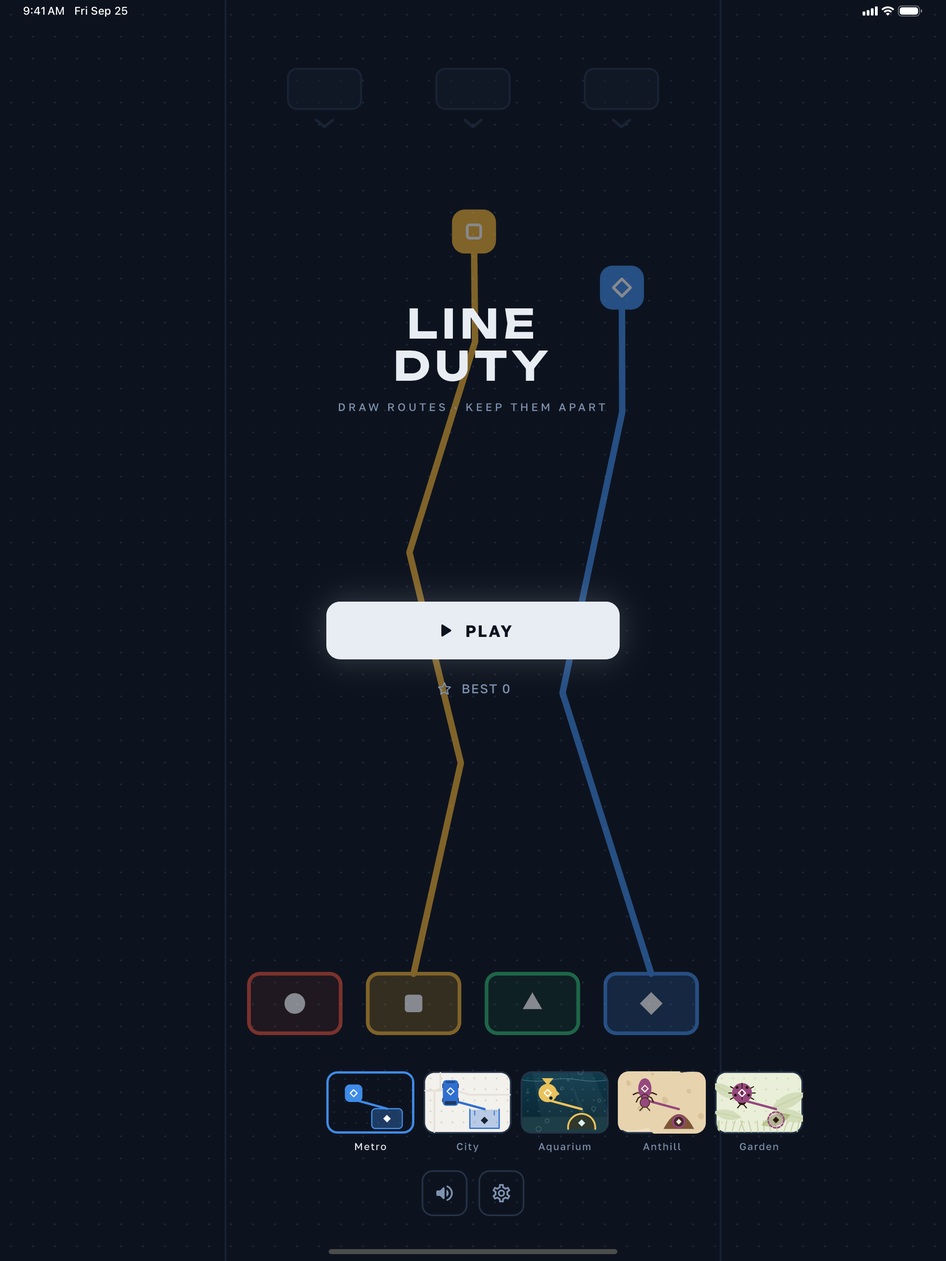
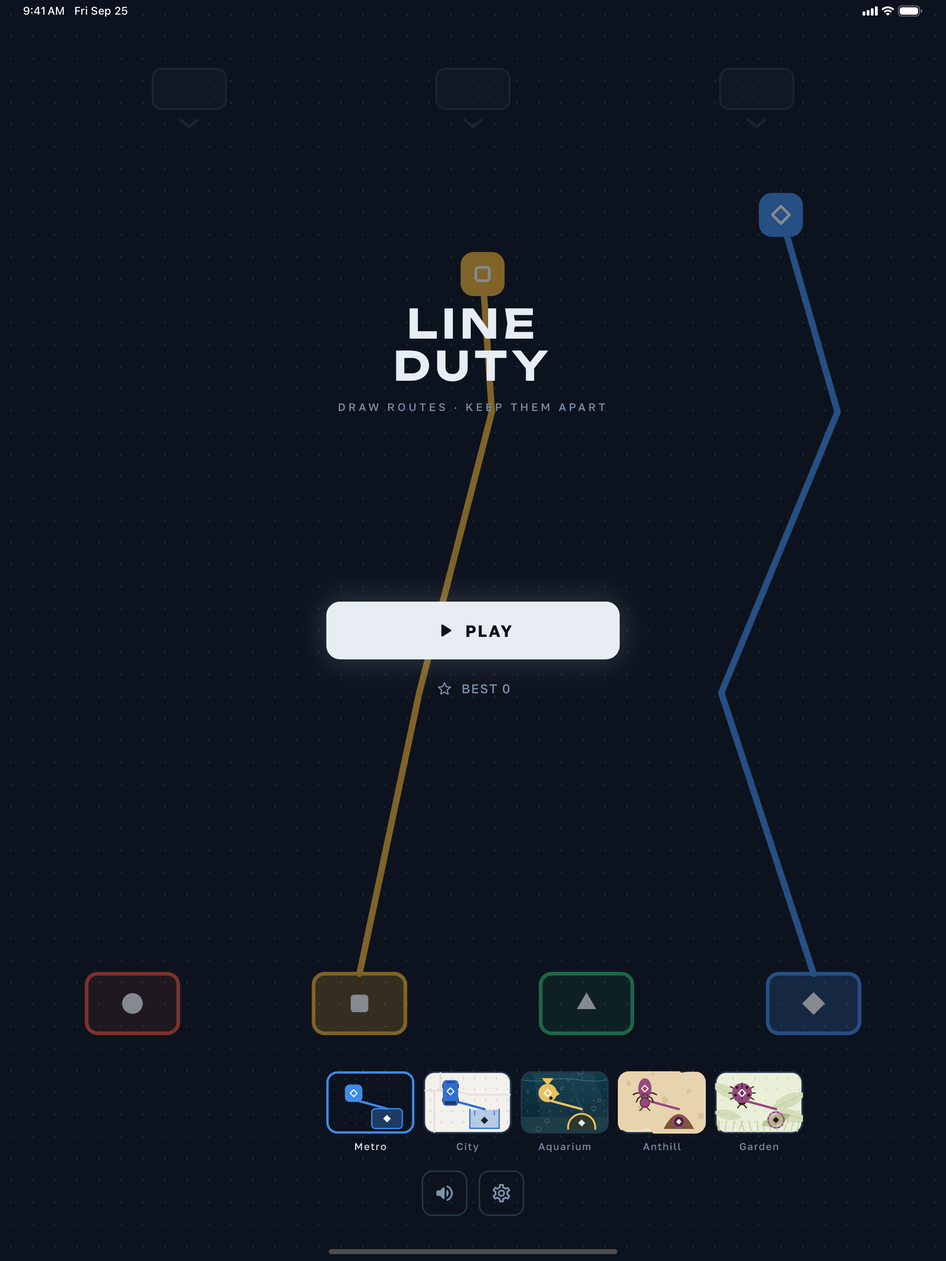
[NO-ISSUE]: Tablets: full-width field with phone-sized units
Replace the centred column with a field that always spans the widget:
zoom stays capped at GameTuning.maxZoom, but fieldWidth becomes
size.x / zoom (360 on phones, ~683 on a 13" iPad), so gates and spawners
spread across the full width while units keep their phone size. Column
offset, edges and columnMode removed; toField/toCanvas are plain scale.
Screenshot stager places units by field-width fractions; iPad shots
retaken.

diff --git a/features/lib/game/engine/line_duty_game.dart b/features/lib/game/engine/line_duty_game.dart
@@ -103,30 +103,23 @@ class LineDutyGame extends FlameGame with DragCallbacks {
     return _skin;
   }
 
-  double get fieldWidth => AppDimens.fieldWidth;
+  /// Ширина поля в единицах: на телефоне `AppDimens.fieldWidth` = 360, на
+  /// планшете больше — зум упирается в [GameTuning.maxZoom], а поле всё
+  /// равно занимает всю ширину виджета; спавны и ворота стоят по долям
+  /// ширины, фигуры остаются телефонного размера.
+  double get fieldWidth => size.x / _zoom;
 
   double get fieldHeight => size.y / _zoom;
 
-  /// Логических px виджета на единицу поля. На телефонах поле занимает всю
-  /// ширину; на планшетах зум упирается в [GameTuning.maxZoom], поле
-  /// становится колонкой по центру (см. [fieldOffset]), а фигуры остаются
-  /// телефонного размера.
+  /// Логических px виджета на единицу поля.
   double get _zoom =>
       math.min(size.x / AppDimens.fieldWidth, GameTuning.maxZoom);
 
-  /// Сдвиг поля от левого края виджета в единицах поля (0 на телефонах).
-  double get fieldOffset => (size.x / _zoom - fieldWidth) / 2;
-
-  /// Поле уже виджета — колонка по центру, края поля стоит показать.
-  bool get columnMode => fieldOffset > 0.5;
-
   /// Точка виджета (логические px) → единицы поля.
-  Vector2 toField(Vector2 canvasPosition) =>
-      Vector2(canvasPosition.x / _zoom - fieldOffset, canvasPosition.y / _zoom);
+  Vector2 toField(Vector2 canvasPosition) => canvasPosition / _zoom;
 
   /// Единицы поля → точка виджета (логические px).
-  Vector2 toCanvas(Vector2 fieldPosition) =>
-      Vector2((fieldPosition.x + fieldOffset) * _zoom, fieldPosition.y * _zoom);
+  Vector2 toCanvas(Vector2 fieldPosition) => fieldPosition * _zoom;
 
   bool get frozen => crashPoint != null;
 
@@ -271,11 +264,10 @@ class LineDutyGame extends FlameGame with DragCallbacks {
     _layout();
   }
 
-  /// Камера смотрит на поле из левого верхнего угла; в колонке точка (0, 0)
-  /// поля сдвинута вправо на [fieldOffset].
+  /// Камера смотрит на поле из левого верхнего угла.
   void _placeCamera() {
     camera.viewfinder.zoom = _zoom;
-    camera.viewfinder.position = Vector2(-fieldOffset, 0);
+    camera.viewfinder.position = Vector2.zero();
   }
 
   /// Отступы сверху (HUD + safe area) и снизу (жест-бар) в логических

diff --git a/features/test/game/line_duty_game_test.dart b/features/test/game/line_duty_game_test.dart
@@ -545,26 +545,33 @@ void main() {
       expect(u.docked?.color, u.color, reason: 'demo routes are docked');
     }
   });
-  group('tablet column', () {
-    test('phone width keeps the full-width field', () {
+  group('tablet scale', () {
+    test('phone width keeps the 360-unit field', () {
       final LineDutyGame g = LineDutyGame()..onGameResize(Vector2(400, 860));
-      expect(g.fieldOffset, 0);
-      expect(g.columnMode, isFalse);
-      expect(g.toField(Vector2(400, 0)).x, closeTo(AppDimens.fieldWidth, 1e-6));
+      expect(g.fieldWidth, closeTo(AppDimens.fieldWidth, 1e-3));
+      expect(g.toField(Vector2(400, 0)).x, closeTo(AppDimens.fieldWidth, 1e-3));
     });
 
-    test('tablet caps the zoom and centres the field', () {
+    test('tablet caps the zoom and widens the field', () {
       final LineDutyGame g = LineDutyGame()..onGameResize(Vector2(1024, 1366));
-      expect(g.columnMode, isTrue);
-      expect(g.fieldHeight, closeTo(1366 / GameTuning.maxZoom, 1e-6));
-      final double margin =
-          (1024 - AppDimens.fieldWidth * GameTuning.maxZoom) / 2;
-      expect(g.toCanvas(Vector2.zero()).x, closeTo(margin, 1e-6));
-      expect(g.toField(Vector2(512, 100)).x,
-          closeTo(AppDimens.fieldWidth / 2, 1e-6));
+      expect(g.fieldWidth, closeTo(1024 / GameTuning.maxZoom, 1e-3));
+      expect(g.fieldHeight, closeTo(1366 / GameTuning.maxZoom, 1e-3));
+      expect(g.toField(Vector2(1024, 0)).x, closeTo(g.fieldWidth, 1e-3));
       final Vector2 p = Vector2(123, 456);
-      expect(g.toField(g.toCanvas(p)).x, closeTo(p.x, 1e-6));
-      expect(g.toField(g.toCanvas(p)).y, closeTo(p.y, 1e-6));
+      expect(g.toField(g.toCanvas(p)).x, closeTo(p.x, 1e-3));
+      expect(g.toField(g.toCanvas(p)).y, closeTo(p.y, 1e-3));
+    });
+
+    test('gates and spawners spread across the wide field', () async {
+      final LineDutyGame g = LineDutyGame()..onGameResize(Vector2(1024, 1366));
+      await g.onLoad();
+      final double w = g.fieldWidth;
+      for (int i = 0; i < g.gates.length; i++) {
+        expect(g.gates[i].position.x,
+            closeTo(w * GameTuning.gateFractions[i], 1e-3));
+      }
+      expect(g.spawners.last.position.x,
+          closeTo(w * GameTuning.spawnFractions.last, 1e-3));
     });
   });
 }

diff --git a/integration_test/store_shots_test.dart b/integration_test/store_shots_test.dart
@@ -117,10 +117,11 @@ void main() {
       for (int i = 0; i < score; i++) {
         cubit().onDelivered();
       }
+      final double w = g.fieldWidth; // 360 on phones, wider on tablets
       g.restore(quiet(<UnitSnapshot>[
-        unitAt(LaneColor.red, 138, 165),
-        unitAt(LaneColor.blue, 224, 225),
-        unitAt(LaneColor.amber, 302, 110),
+        unitAt(LaneColor.red, w * 138 / 360, 165),
+        unitAt(LaneColor.blue, w * 224 / 360, 225),
+        unitAt(LaneColor.amber, w * 302 / 360, 110),
       ]));
       await tester.pump(const Duration(milliseconds: 200));
       routeHome(g, g.units[0], bend: 58);
@@ -136,10 +137,11 @@ void main() {
     await stageTwoRoutes();
     await shot('01');
     final LineDutyGame g = game();
+    final double mid = g.fieldWidth / 2;
     g.restore(quiet(<UnitSnapshot>[
-      unitAt(LaneColor.blue, 150, 380),
-      unitAt(LaneColor.red, 196, 388),
-      unitAt(LaneColor.green, 300, 160),
+      unitAt(LaneColor.blue, mid - 30, 380),
+      unitAt(LaneColor.red, mid + 16, 388),
+      unitAt(LaneColor.green, g.fieldWidth * 300 / 360, 160),
     ]));
     await tester.pump(const Duration(milliseconds: 120));
     expect(g.warnings, isNotEmpty, reason: 'warning ring is up');

diff --git a/features/lib/game/engine/game_tuning.dart b/features/lib/game/engine/game_tuning.dart
@@ -23,8 +23,9 @@ abstract final class GameTuning {
   static const int maxUnits = 8;
 
   /// Потолок зума (логических px на единицу поля). Телефоны (≤ 440 px
-  /// ширины → зум ≤ 1.22) не упираются; на планшетах поле становится
-  /// колонкой 540 px по центру, фигуры остаются телефонного размера.
+  /// ширины → зум ≤ 1.22) не упираются; на планшетах поле занимает всю
+  /// ширину, но становится шире в единицах (iPad 13" — 683 × 911), фигуры
+  /// остаются телефонного размера.
   static const double maxZoom = 1.5;
 
   /// Спавн ждёт, пока под спавном не станет свободно (по вертикали).

diff --git a/features/lib/game/engine/field_layers.dart b/features/lib/game/engine/field_layers.dart
@@ -22,19 +22,6 @@ class DecorLayer extends Component with HasGameReference<LineDutyGame> {
       Size(game.fieldWidth, game.fieldHeight),
       time: game.time,
     );
-    if (game.columnMode) _renderEdges(canvas);
-  }
-
-  /// На планшете поле — колонка по центру: тонкие края, чтобы разворот
-  /// фигуры у невидимой границы не выглядел случайным.
-  void _renderEdges(Canvas canvas) {
-    final Paint paint = Paint()
-      ..color = AppColors.stroke
-      ..strokeWidth = 1.2
-      ..style = PaintingStyle.stroke;
-    canvas.drawLine(Offset.zero, Offset(0, game.fieldHeight), paint);
-    canvas.drawLine(Offset(game.fieldWidth, 0),
-        Offset(game.fieldWidth, game.fieldHeight), paint);
   }
 }
 

diff --git a/CLAUDE.md b/CLAUDE.md
@@ -106,7 +106,7 @@ flutter test integration_test/game_smoke_test.dart -d <deviceId> --flavor dev --
 - Иконки приложения: исходник — `store/icon_rounded_1024.png` (настоящая иконка от дизайнера, 2026-09-22; скруглённая, прозрачные углы, фон `0D131E`), из него `appstore_icon_1024.png` (`script/make_flat_icon.swift … 0D131E`, без альфы), `android_adaptive_foreground_1024.png` (`script/make_adaptive_foreground.swift`), `playstore_icon_512.png`; наборы iOS `AppIcon` / `AppIcon-Dev` (`sips -z` из плоской 1024), Android mipmap (`ic_launcher` из скруглённой, `ic_launcher_foreground` из adaptive-переднего слоя) + `mipmap-anydpi-v26/ic_launcher.xml` (фон — сплошной `0D131E`), dev-вариант с плашкой в `android/app/src/dev/res` (`script/gen_dev_icons.sh`), экран запуска — `script/gen_launch_images.sh`. **Ловушка:** цвета PNG проверять по байтам (например, `python3` с `zlib`), а не через `NSImage`/`sips`/`colorAt` — они сдвигают значения через цветовой профиль.
 
 ## Движок (`features/lib/game/engine/`)
-- `LineDutyGame extends FlameGame with DragCallbacks`. Координаты поля — логические единицы: ширина `AppDimens.fieldWidth` = 360 (1 ед. = 3 px холста спеки), высота от пропорции виджета; зум = `min(ширина виджета / 360, GameTuning.maxZoom = 1.5)` — на телефонах поле во всю ширину, на планшетах колонка 540 px по центру (`fieldOffset`, `columnMode`; `DecorLayer` рисует края колонки), фигуры телефонного размера. Координаты виджет ↔ поле — `toField` / `toCanvas` (тесты и постановщик скриншотов тоже через них). Фон движка прозрачный — фон и сетку рисует `AppScaffold`; декор темы — `DecorLayer` (priority −20) через `game.skin.paintDecor`. `game.skin` — скин текущей палитры (мемоизация по `AppColors.current.id`); `UnitComponent`/`GateComponent`/`SpawnerComponent` в `render` зовут скин (фигура: `headingAngle` = atan2 heading, сам компонент не вращается, хитбокс 32 остаётся).
+- `LineDutyGame extends FlameGame with DragCallbacks`. Координаты поля — логические единицы: ширина `AppDimens.fieldWidth` = 360 (1 ед. = 3 px холста спеки), высота от пропорции виджета; зум = `min(ширина виджета / 360, GameTuning.maxZoom = 1.5)`, а `fieldWidth = ширина виджета / зум` — на телефонах 360, на планшетах больше (iPad 13" — 683 × 911): поле всегда во всю ширину, спавны и ворота по долям ширины расходятся шире, фигуры остаются телефонного размера. Ширину поля не считать константой — брать `game.fieldWidth` (константа `AppDimens.fieldWidth` — только базовый масштаб). Координаты виджет ↔ поле — `toField` / `toCanvas` (тесты и постановщик скриншотов тоже через них). Фон движка прозрачный — фон и сетку рисует `AppScaffold`; декор темы — `DecorLayer` (priority −20) через `game.skin.paintDecor`. `game.skin` — скин текущей палитры (мемоизация по `AppColors.current.id`); `UnitComponent`/`GateComponent`/`SpawnerComponent` в `render` зовут скин (фигура: `headingAngle` = atan2 heading, сам компонент не вращается, хитбокс 32 остаётся).
 - **Все числа геймплея — в `game_tuning.dart`** (`GameTuning`): скорость 38 → 74 ед/с и интервал спавна 3.2 → 1.25 с растут с числом доведённых фигур (потолок на 45), не больше 8 фигур, захват пальцем 26 ед., столкновение — по **капсульным хитбоксам скина** (`FieldSkin.hitbox`, `HitCapsule` в `hit_capsule.dart`: отрезок вдоль `heading` + радиус; Метро — круг Ø `crashDistance` = 0.92 стороны, автобус/муравей/рыбка — вытянутые), зазор < 0 = столкновение, < `warnGap` (24.6) = кольцо «!» между ближайшими точками осей; подбор пикапа — по зазору капсулы до точки; захват пальцем/края/ворота — по базовому кругу 32, вспышка 0.7 с, «Продолжить» чистит радиус 90.
 - Отступы: форма отдаёт `setInsets(top: safeArea + HUD 64, bottom: safeArea + 8)` в логических px; в единицы поля переводятся в `_layout()` при первом размере (до него `size` у игры нет — ловушка Flame). Спавны (3, доли 0.2/0.5/0.8) на `spawnRowOffset` ниже верхнего отступа, ворота (4, в порядке `LaneColor.values`) на `gateRowOffset` выше нижнего.
 - Фигура (`UnitComponent`): едет по `heading` (по умолчанию вниз); маршрут — список точек, съедается по мере движения, съеденные точки идут в `trace` (пунктир 30 %, гаснет за `traceSeconds`); **за концом маршрута поворачивает вниз** (маршрут — временное отклонение), без маршрута над своими воротами `_magnet` доворачивает к центру входа (`gateMagnetSlack/Speed`); боковой/верхний край разворачивает вниз и стирает маршрут. Новый жест по фигуре стирает старый маршрут (`beginRoute`) и ведёт её живьём, пока палец идёт. Логика жеста — `routeStart / routeMove / routeEnd` (drag-колбэки только переводят координаты — из `canvasStartPosition`, потому что `canvasEndPosition` у Flame = позиция + дельта, на шаг впереди пальца; тесты зовут методы напрямую). **Стыковка:** палец над своими воротами (или выше кромки на `gateDockMargin`) зовёт `UnitComponent.dockTo` — маршрут заканчивается входом в ворота (X пальца, зажатый внутрь ворот на радиус фигуры; Y — верхняя кромка), `docked` = ворота, жест закрывается сам; ворота с живым пристыкованным маршрутом подсвечены (`GateComponent.armed`, ставит `_armGates()` каждый кадр). Чужие ворота не стыкуют. Демо стыкует через тот же `dockTo`. Отладка хитбоксов и форм баз: `cd features && flutter test test/tools/render_hitboxes_test.dart` → `build/hitboxes/<skin>.png`.

diff --git a/.claude/changelog/CHANGELOG.md b/.claude/changelog/CHANGELOG.md
@@ -13,7 +13,7 @@ On release, rename `[Unreleased]` to `[X.Y.Z] — YYYY-MM-DD` and start a fresh 
 
 **Что нового:**
 
-- Изменено: на iPad поле больше не растягивается на весь экран — игра идёт в колонке по центру, фигуры и ворота того же размера, что на телефоне
+- Изменено: на iPad фигуры и ворота стали телефонного размера, поле по-прежнему во всю ширину — ворота и спавны стоят шире, места для маршрутов больше
 - Новое: пять языков интерфейса — Deutsch, Español, Français, Português (Brasil), 日本語; выбор в настройках, по умолчанию язык устройства
 - Новое: игра «Диспетчер» — фигуры четырёх цветов выезжают сверху, рисуй им пальцем маршруты до ворот своего цвета; маршрут стирается за фигурой, красное кольцо предупреждает о сближении, касание двух фигур или чужие ворота — конец забега
 - Новое: меню с живым демо-полем, счёт и рекорд в игре, пауза (звук, вибрация), экран проигрыша с бейджем «Новый рекорд» и одним бесплатным продолжением
@@ -36,7 +36,7 @@ On release, rename `[Unreleased]` to `[X.Y.Z] — YYYY-MM-DD` and start a fresh 
 
 **What's new:**
 
-- Changed: on iPad the field no longer stretches across the whole screen — the game runs in a centred column with units and gates the same size as on a phone
+- Changed: on iPad units and gates are now phone-sized while the field still spans the whole screen — gates and spawners sit wider apart, with more room for routes
 - New: five more interface languages — Deutsch, Español, Français, Português (Brasil), 日本語; pick one in Settings, the device language is used by default
 - New: the dispatcher game — units of four colours roll in from the top, draw their routes with a finger to the gate of their colour; the route erases behind the unit, a red ring warns of a near miss, two units touching or a wrong gate ends the run
 - New: menu with a live demo field, score and best in game, pause (sound, vibration), game-over screen with a "New record" badge and one free continue

diff --git a/.claude/my_docs/STORE_LISTINGS.md b/.claude/my_docs/STORE_LISTINGS.md
@@ -431,11 +431,11 @@ Contact: fyodorov.software@gmail.com.
 | Папка | Устройство | Размер | Статус |
 |---|---|---|---|
 | `store/screenshots/iphone69/en-US/01–06.png` | iPhone 17 Pro Max | 1320×2868 | готово |
-| `store/screenshots/ipad13/en-US/01–06.png` | iPad Pro 13" (M4) | 2064×2752 | готово (колонка по центру). Язык симулятора — английский, иначе дата в статус-баре на русском: `xcrun simctl spawn <udid> defaults write .GlobalPreferences AppleLanguages -array en`, затем перезагрузить симулятор |
+| `store/screenshots/ipad13/en-US/01–06.png` | iPad Pro 13" (M4) | 2064×2752 | готово (поле во всю ширину, фигуры телефонного размера). Язык симулятора — английский, иначе дата в статус-баре на русском: `xcrun simctl spawn <udid> defaults write .GlobalPreferences AppleLanguages -array en`, затем перезагрузить симулятор |
 | `store/screenshots/play/en-US/01–06.png` | обрезка iPhone-кадров до 9:16 (`sips --cropToHeightWidth 2347 1320`) | 1320×2347 | готово |
 | `store/play_feature_graphic_1024x500.png` | `swift script/make_feature_graphic.swift store/icon_rounded_1024.png <out>` | 1024×500 | готово |
 
-**iPad.** С 2026-09-25 поле на планшете — колонка 540 px по центру (`GameTuning.maxZoom`), фигуры телефонного размера; iPad-скриншоты пересняты с этой раскладкой и с английским языком симулятора.
+**iPad.** С 2026-09-25 зум на планшете ограничен (`GameTuning.maxZoom`): поле во всю ширину, но шире в единицах, фигуры и ворота телефонного размера; iPad-скриншоты пересняты с этой раскладкой и с английским языком симулятора. Перед съёмкой удалить dev-сборку с симулятора (`xcrun simctl uninstall <udid> com.lineduty.dev`), иначе «◀ Line Dev» в статус-баре.
 
 Локали без своих скриншотов в App Store Connect берут кадры основной локали (en-US). Если снимать ru/ja: `script/store_shots.sh <udid> store/screenshots/iphone69/ru-RU ru`.
 

diff --git a/.claude/plans/plan.md b/.claude/plans/plan.md
@@ -67,7 +67,7 @@
 - [ ] Монетизация: реклама за продолжение (`AppConfig.monetizationEnabled`), премиум без рекламы
 - [x] Политика конфиденциальности (2026-09-25): страницы en/ru для pyf.app в `my_docs/landing/line-duty/`, ссылка в `AppConstants` и строка в настройках
 - [x] Тексты App Store / Google Play на 7 языках, Notes for Review, «Что нового», feature graphic, скриншоты iPhone 6.9" / iPad 13" / Play (en-US) — `.claude/my_docs/STORE_LISTINGS.md` (2026-09-25)
-- [x] iPad: поле колонкой по центру (`GameTuning.maxZoom` 1.5, `fieldOffset`, края колонки), iPad-скриншоты пересняты (2026-09-25)
+- [x] iPad: зум ограничен `GameTuning.maxZoom` 1.5, поле во всю ширину и шире в единицах, фигуры телефонного размера; iPad-скриншоты пересняты (2026-09-25)
 - [ ] Заполнить App Store Connect и завести Google Play по чеклисту STORE_LISTINGS.md § 7; Apple ID приложения → `AppConstants.appStoreId` («Оценить»)
 - [ ] Переводы de / fr / hu / ja (по образцу WasDrop)
 
